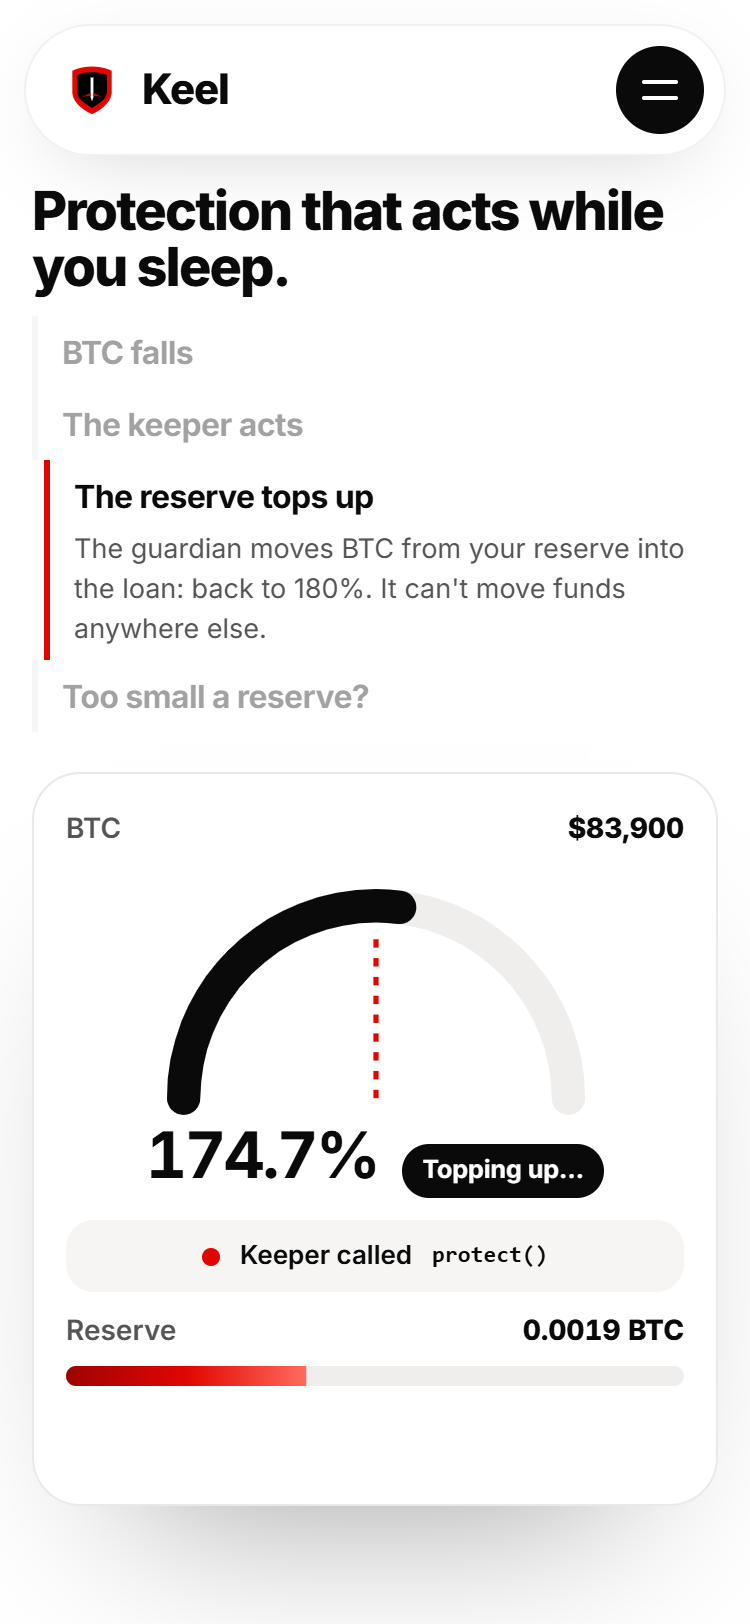
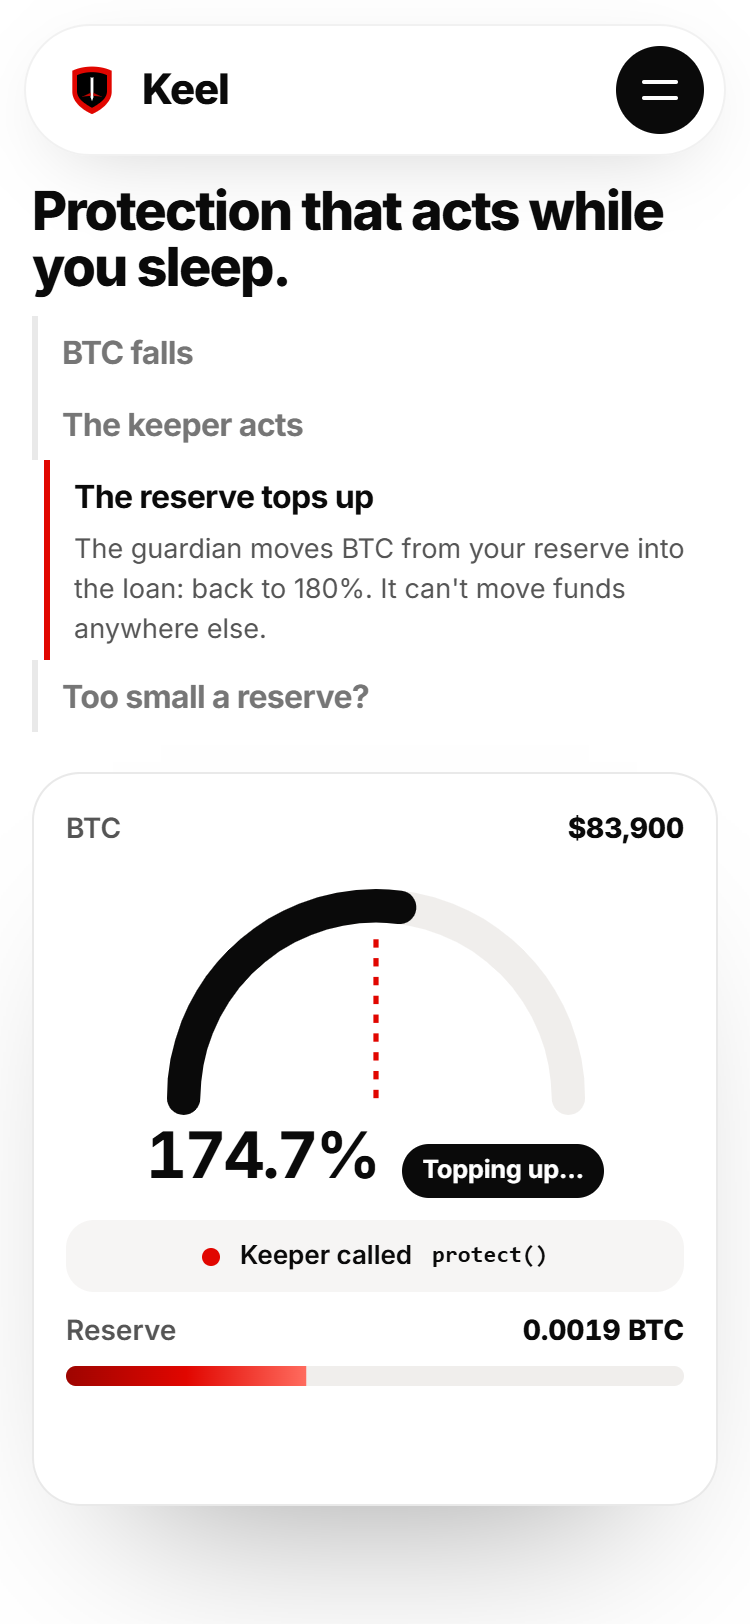
Landing: Onest type like the reference, faster rendering, motion on first interaction
- typography: Onest (closest free match to the reference's neo-grotesk, SIL OFL), self-hosted with
  font-display: optional and a preload, headlines at medium weight; the app keeps Inter, now loaded
  only for app launches
- rendering cost: no filter: blur or backdrop-filter (far spheres are soft radial gradients, glass is
  near-opaque white), no blanket will-change, lighter sphere shadows; this cut seconds of style/layout
  on a throttled mobile CPU
- headline and lead stay visible from the first paint (they glide in); scroll motion starts on the
  first scroll/touch/pointer/key or after 8 s
- "set to test" and stats unchanged

diff --git a/miniapp/src/landing/landing.css b/miniapp/src/landing/landing.css
@@ -1,3 +1,12 @@
+/* Onest (SIL Open Font License 1.1), self-hosted. "optional": a font that arrives late never re-lays out the page. */
+@font-face {
+  font-family: "Onest";
+  font-style: normal;
+  font-weight: 400 700;
+  font-display: optional;
+  src: url(/fonts/onest-latin.woff2) format("woff2");
+  unicode-range: U+0000-00FF, U+0131, U+0152-0153, U+02BB-02BC, U+02C6, U+02DA, U+02DC, U+0304, U+0308, U+0329, U+2000-206F, U+20AC, U+2122, U+2191, U+2193, U+2212, U+2215, U+FEFF, U+FFFD;
+}
 /* Keel landing page. White / off-white, black type, Keel red. Spheres are CSS-only red glass. */
 .lp {
   --red: #e10600;
@@ -15,7 +24,7 @@
   --r-md: 18px;
   color: var(--ink);
   background: #fff;
-  font-family: Inter, system-ui, -apple-system, "Segoe UI", Roboto, sans-serif;
+  font-family: Onest, system-ui, -apple-system, "Segoe UI", Roboto, sans-serif;
   -webkit-font-smoothing: antialiased;
   overflow-x: clip;
   line-height: 1.5;
@@ -23,7 +32,7 @@
 .lp *, .lp *::before, .lp *::after { box-sizing: border-box; }
 .lp img { display: block; max-width: 100%; }
 :where(.lp) a { color: inherit; }
-.lp h1, .lp h2, .lp h3, .lp h4 { margin: 0; letter-spacing: -0.035em; line-height: 1.04; font-weight: 750; }
+.lp h1, .lp h2, .lp h3, .lp h4 { margin: 0; letter-spacing: -0.03em; line-height: 1.06; font-weight: 500; }
 .lp p { margin: 0; }
 .lp code { font-family: ui-monospace, "SF Mono", Menlo, Consolas, monospace; font-size: 0.9em; }
 .lp :focus-visible { outline: 3px solid var(--red); outline-offset: 3px; border-radius: 10px; }
@@ -53,13 +62,12 @@
     radial-gradient(circle at 31% 26%, rgba(255, 255, 255, 0.95) 0 3.5%, rgba(255, 255, 255, 0.4) 8%, rgba(255, 255, 255, 0) 20%),
     radial-gradient(circle at 72% 82%, rgba(255, 140, 128, 0.7), rgba(255, 140, 128, 0) 42%),
     radial-gradient(circle at 38% 34%, #ff4d40 0%, var(--red) 40%, var(--red-deep) 78%, #5a0200 100%);
-  box-shadow: inset -18px -26px 50px rgba(70, 0, 0, 0.42), inset 12px 14px 34px rgba(255, 200, 190, 0.38), 0 50px 90px -30px rgba(225, 6, 0, 0.4);
+  box-shadow: inset -18px -26px 50px rgba(70, 0, 0, 0.42), inset 12px 14px 34px rgba(255, 200, 190, 0.38);
   opacity: 0.94;
-  will-change: transform;
 }
-.sph.d1 { filter: blur(2px); opacity: 0.85; }
-.sph.d2 { filter: blur(10px); opacity: 0.55; }
-.sph.d3 { filter: blur(28px); opacity: 0.38; }
+.sph.d1 { opacity: 0.88; }
+.sph.d2 { opacity: 0.6; box-shadow: none; background: radial-gradient(circle at 40% 36%, rgba(255, 90, 80, 0.85) 0%, rgba(225, 6, 0, 0.6) 38%, rgba(225, 6, 0, 0.18) 58%, rgba(225, 6, 0, 0) 71%); }
+.sph.d3 { opacity: 0.45; box-shadow: none; background: radial-gradient(circle at 50% 50%, rgba(225, 6, 0, 0.55) 0%, rgba(225, 6, 0, 0.22) 40%, rgba(225, 6, 0, 0) 70%); }
 .sph.light {
   background:
     radial-gradient(circle at 31% 26%, #fff 0 4%, rgba(255, 255, 255, 0.5) 9%, rgba(255, 255, 255, 0) 22%),
@@ -68,12 +76,12 @@
 }
 
 /* ---------------------------------------------------------------- buttons */
-.btn { position: relative; display: inline-flex; align-items: center; justify-content: center; gap: 9px; min-height: 52px; padding: 0 24px; border-radius: 999px; font: inherit; font-weight: 650; font-size: 16px; text-decoration: none; border: 1.5px solid transparent; cursor: pointer; transition: background 0.35s var(--ease), color 0.35s var(--ease), border-color 0.35s var(--ease), box-shadow 0.35s var(--ease); will-change: transform; white-space: nowrap; }
+.btn { position: relative; display: inline-flex; align-items: center; justify-content: center; gap: 9px; min-height: 52px; padding: 0 24px; border-radius: 999px; font: inherit; font-weight: 600; font-size: 16px; text-decoration: none; border: 1.5px solid transparent; cursor: pointer; transition: background 0.35s var(--ease), color 0.35s var(--ease), border-color 0.35s var(--ease), box-shadow 0.35s var(--ease); will-change: transform; white-space: nowrap; }
 .btn span { display: inline-flex; align-items: center; gap: 9px; }
 .btn-sm { min-height: 42px; padding: 0 18px; font-size: 14.5px; }
 .btn-primary { background: var(--red); color: #fff; box-shadow: 0 12px 30px -12px rgba(225, 6, 0, 0.6); }
 .btn-primary:hover { background: var(--red-deep); }
-.btn-ghost { background: rgba(255, 255, 255, 0.7); color: var(--ink); border-color: rgba(10, 10, 10, 0.16); backdrop-filter: blur(10px); }
+.btn-ghost { background: rgba(255, 255, 255, 0.7); color: var(--ink); border-color: rgba(10, 10, 10, 0.16); }
 .btn-ghost:hover { border-color: var(--ink); background: #fff; }
 .btn-light { background: #fff; color: var(--ink); }
 .btn-light:hover { background: #ffecea; }
@@ -83,9 +91,9 @@
 
 /* ---------------------------------------------------------------- nav */
 .nav { position: fixed; inset: 12px 12px auto; z-index: 50; }
-.nav-inner { display: flex; align-items: center; gap: 24px; width: min(1240px, 100%); margin: 0 auto; padding: 10px 10px 10px 18px; border-radius: 999px; background: rgba(255, 255, 255, 0.58); border: 1px solid rgba(255, 255, 255, 0.7); backdrop-filter: blur(18px) saturate(1.6); -webkit-backdrop-filter: blur(18px) saturate(1.6); transition: box-shadow 0.5s var(--ease), background 0.5s var(--ease); }
-.nav.scrolled .nav-inner { background: rgba(255, 255, 255, 0.82); box-shadow: 0 10px 40px -18px rgba(0, 0, 0, 0.25); border-color: rgba(10, 10, 10, 0.06); }
-.brand { display: inline-flex; align-items: center; gap: 10px; font-weight: 800; font-size: 21px; letter-spacing: -0.03em; text-decoration: none; }
+.nav-inner { display: flex; align-items: center; gap: 24px; width: min(1240px, 100%); margin: 0 auto; padding: 10px 10px 10px 18px; border-radius: 999px; background: rgba(255, 255, 255, 0.86); border: 1px solid rgba(10, 10, 10, 0.05); transition: box-shadow 0.5s var(--ease), background 0.5s var(--ease); }
+.nav.scrolled .nav-inner { background: rgba(255, 255, 255, 0.95); box-shadow: 0 10px 40px -18px rgba(0, 0, 0, 0.25); border-color: rgba(10, 10, 10, 0.06); }
+.brand { display: inline-flex; align-items: center; gap: 10px; font-weight: 700; font-size: 21px; letter-spacing: -0.03em; text-decoration: none; }
 .brand.light { color: #fff; }
 .nav-links { display: flex; gap: 26px; margin-left: 12px; font-size: 15px; font-weight: 550; }
 .nav-links a { text-decoration: none; color: #333; position: relative; }
@@ -99,7 +107,7 @@
 .nav-toggle span:last-child { top: 25px; }
 .nav.open .nav-toggle span:first-child { transform: translateY(4px) rotate(45deg); }
 .nav.open .nav-toggle span:last-child { transform: translateY(-4px) rotate(-45deg); }
-.nav-sheet { margin: 8px auto 0; width: min(1240px, 100%); padding: 16px; border-radius: 28px; background: rgba(255, 255, 255, 0.94); backdrop-filter: blur(18px); box-shadow: 0 20px 50px -20px rgba(0, 0, 0, 0.3); display: grid; gap: 4px; animation: sheet 0.5s var(--ease); }
+.nav-sheet { margin: 8px auto 0; width: min(1240px, 100%); padding: 16px; border-radius: 28px; background: #fff; box-shadow: 0 20px 50px -20px rgba(0, 0, 0, 0.3); display: grid; gap: 4px; animation: sheet 0.5s var(--ease); }
 .nav-sheet[hidden] { display: none; }
 .nav-sheet > a:not(.btn) { padding: 12px 10px; font-size: 18px; font-weight: 600; text-decoration: none; border-bottom: 1px solid var(--line); }
 .nav-sheet .btn { margin-top: 8px; }
@@ -108,14 +116,14 @@
 /* ---------------------------------------------------------------- hero */
 .hero { position: relative; min-height: 100vh; min-height: 100svh; padding: 130px 0 70px; display: grid; align-items: center; background: radial-gradient(120% 80% at 80% 0%, #fff4f2 0%, #ffffff 55%); overflow: clip; }
 .hero-grid { display: grid; grid-template-columns: 1.25fr 0.75fr; gap: 40px; align-items: center; }
-.hero h1 { font-size: clamp(42px, 5.4vw, 80px); letter-spacing: -0.045em; margin: 18px 0 22px; }
+.hero h1 { font-size: clamp(42px, 5.4vw, 80px); letter-spacing: -0.035em; margin: 18px 0 22px; }
 .hero h1 em { font-style: normal; color: var(--red); }
 .hero .lead { margin-bottom: 30px; }
 .hero .fine { margin-top: 18px; }
 .hero-visual { position: relative; height: min(680px, 78vh); display: grid; place-items: center; }
 .h-s1 { top: -120px; right: -140px; }
 .h-s2 { top: 4%; right: -2%; z-index: 3; }
-.h-s3 { bottom: 34%; left: 4%; z-index: 3; }
+.h-s3 { bottom: 9%; left: 53%; z-index: 3; }
 .h-s4 { bottom: -80px; left: -120px; }
 
 .phone { position: relative; width: 290px; aspect-ratio: 540 / 1107; border-radius: 46px; padding: 10px; background: linear-gradient(145deg, #2b2b2b, #050505); box-shadow: 0 0 0 1.5px #3a3a3a inset, 0 60px 90px -40px rgba(0, 0, 0, 0.55), 0 30px 60px -30px rgba(225, 6, 0, 0.3); z-index: 2; }
@@ -124,7 +132,7 @@
 .phone-screen img { width: 100%; height: 100%; object-fit: cover; object-position: top; }
 .hero-phone { width: min(310px, 74vw); }
 
-.float { position: absolute; z-index: 4; display: flex; align-items: center; gap: 12px; padding: 14px 16px; border-radius: 20px; background: rgba(255, 255, 255, 0.78); border: 1px solid rgba(255, 255, 255, 0.9); backdrop-filter: blur(16px) saturate(1.4); -webkit-backdrop-filter: blur(16px) saturate(1.4); box-shadow: 0 24px 50px -24px rgba(0, 0, 0, 0.28), 0 2px 6px rgba(0, 0, 0, 0.04); font-size: 14px; will-change: transform; }
+.float { position: absolute; z-index: 4; display: flex; align-items: center; gap: 12px; padding: 14px 16px; border-radius: 20px; background: rgba(255, 255, 255, 0.94); border: 1px solid rgba(10, 10, 10, 0.05); box-shadow: 0 24px 50px -24px rgba(0, 0, 0, 0.28), 0 2px 6px rgba(0, 0, 0, 0.04); font-size: 14px; }
 .float b { display: block; font-size: 14.5px; letter-spacing: -0.01em; }
 .float small { display: block; color: var(--muted); font-size: 12.5px; }
 .fc-label { font-size: 12px; color: var(--muted); font-weight: 600; }
@@ -139,7 +147,7 @@
 /* ---------------------------------------------------------------- intro */
 .intro { position: relative; padding: clamp(80px, 12vw, 160px) 0; }
 .i-s1 { top: 18%; right: 8%; }
-.words { font-size: clamp(26px, 3.6vw, 50px); line-height: 1.22; letter-spacing: -0.03em; font-weight: 650; max-width: 1080px; }
+.words { font-size: clamp(26px, 3.6vw, 50px); line-height: 1.22; letter-spacing: -0.025em; font-weight: 500; max-width: 1080px; }
 .words .w { display: inline; transition: opacity 0.9s var(--ease), filter 0.9s var(--ease); }
 
 /* ---------------------------------------------------------------- features */
@@ -162,7 +170,7 @@
 .expand { position: relative; overflow: hidden; background: radial-gradient(120% 120% at 100% 0%, #ff3b2e 0%, var(--red) 45%, var(--red-deep) 100%); color: #fff; padding: clamp(80px, 10vw, 140px) 0; will-change: clip-path; }
 .e-s1 { top: -140px; left: -120px; }
 .e-s1.sph, .e-s2.sph { filter: none; }
-.e-s1 { opacity: 0.35 !important; filter: blur(14px) !important; }
+.e-s1 { opacity: 0.3 !important; }
 .e-s2 { bottom: 12%; right: 46%; }
 .expand-grid { display: grid; grid-template-columns: 0.85fr 1.15fr; gap: 48px; align-items: center; }
 .expand-copy { display: grid; gap: 18px; }
@@ -190,7 +198,7 @@
 .rm .g-steps li { color: var(--ink); }
 .g-visual { position: relative; display: grid; place-items: center; min-height: 520px; }
 .g-s1 { top: 0; right: 4%; }
-.g-card { position: relative; z-index: 2; width: min(420px, 100%); padding: 28px; border-radius: 30px; background: rgba(255, 255, 255, 0.84); backdrop-filter: blur(20px); border: 1px solid var(--line); box-shadow: 0 50px 90px -50px rgba(0, 0, 0, 0.4); display: grid; gap: 14px; }
+.g-card { position: relative; z-index: 2; width: min(420px, 100%); padding: 28px; border-radius: 30px; background: rgba(255, 255, 255, 0.96); border: 1px solid var(--line); box-shadow: 0 50px 90px -50px rgba(0, 0, 0, 0.4); display: grid; gap: 14px; }
 .g-top { display: flex; justify-content: space-between; color: var(--muted); font-weight: 600; font-size: 14px; }
 .g-top b { color: var(--ink); font-variant-numeric: tabular-nums; }
 .g-gauge { width: 100%; }
@@ -213,7 +221,7 @@
 .g-reserve-top b { color: var(--ink); font-variant-numeric: tabular-nums; }
 .g-bar { height: 10px; border-radius: 999px; background: #f0eeec; overflow: hidden; }
 .g-bar i { display: block; height: 100%; background: linear-gradient(90deg, var(--red-deep), var(--red), var(--coral)); transform-origin: left; }
-.g-done { text-align: center; padding: 12px; border-radius: 14px; background: var(--ink); color: #fff; font-weight: 650; opacity: 0; transform: translateY(8px); transition: opacity 0.5s var(--ease), transform 0.5s var(--ease); }
+.g-done { text-align: center; padding: 12px; border-radius: 14px; background: var(--ink); color: #fff; font-weight: 600; opacity: 0; transform: translateY(8px); transition: opacity 0.5s var(--ease), transform 0.5s var(--ease); }
 .g-done.on { opacity: 1; transform: none; }
 
 /* ---------------------------------------------------------------- payments */
@@ -239,7 +247,7 @@
 
 /* ---------------------------------------------------------------- built on Mezo */
 .mezo { padding: clamp(70px, 9vw, 120px) 0; border-top: 1px solid var(--line); }
-.logos { display: flex; flex-wrap: wrap; justify-content: space-between; gap: 24px; padding: 8px 0 56px; color: #8a8a8a; font-size: clamp(22px, 2.6vw, 34px); font-weight: 750; letter-spacing: -0.03em; }
+.logos { display: flex; flex-wrap: wrap; justify-content: space-between; gap: 24px; padding: 8px 0 56px; color: #8a8a8a; font-size: clamp(22px, 2.6vw, 34px); font-weight: 600; letter-spacing: -0.03em; }
 .logos span { display: inline-flex; align-items: center; gap: 10px; filter: grayscale(1); transition: filter 0.5s var(--ease), color 0.5s var(--ease); }
 .logos span:hover { filter: none; color: var(--ink); }
 .logo-mezo img { border-radius: 9px; }
@@ -253,9 +261,9 @@
 
 /* ---------------------------------------------------------------- stats band */
 .stats { position: relative; padding: clamp(70px, 9vw, 110px) 0; background: var(--night); color: #fff; overflow: hidden; }
-.stats::before { content: ""; position: absolute; width: 520px; height: 520px; right: -180px; top: -260px; border-radius: 50%; background: radial-gradient(circle, rgba(225, 6, 0, 0.45), transparent 65%); filter: blur(20px); }
+.stats::before { content: ""; position: absolute; width: 520px; height: 520px; right: -180px; top: -260px; border-radius: 50%; background: radial-gradient(circle, rgba(225, 6, 0, 0.42), rgba(225, 6, 0, 0.12) 45%, transparent 68%); }
 .stats-head { display: flex; justify-content: space-between; align-items: center; gap: 16px; flex-wrap: wrap; margin-bottom: 34px; }
-.stats-link { display: inline-flex; gap: 8px; align-items: center; font-weight: 650; text-decoration: none; color: #fff !important; }
+.stats-link { display: inline-flex; gap: 8px; align-items: center; font-weight: 600; text-decoration: none; color: #fff !important; }
 .stats-link:hover { color: #ff8a80 !important; }
 .stats-grid { display: grid; grid-template-columns: repeat(4, 1fr); gap: 16px; }
 .stat { display: grid; gap: 6px; padding: 24px; border-radius: var(--r-lg); background: rgba(255, 255, 255, 0.05); border: 1px solid rgba(255, 255, 255, 0.08); }
@@ -298,9 +306,9 @@
 .cta-grid { display: grid; grid-template-columns: 1fr auto; gap: 48px; align-items: center; }
 .cta h2 { font-size: clamp(38px, 5.6vw, 76px); margin-bottom: 18px; }
 .cta p { font-size: 19px; color: #fff; margin-bottom: 28px; max-width: 540px; }
-.cta-demo { display: inline-block; margin-top: 20px; color: #fff !important; font-weight: 650; }
+.cta-demo { display: inline-block; margin-top: 20px; color: #fff !important; font-weight: 600; }
 .qr { margin: 0; display: grid; gap: 12px; justify-items: center; padding: 18px; border-radius: 28px; background: #fff; color: var(--ink); box-shadow: 0 40px 70px -40px rgba(0, 0, 0, 0.5); }
-.qr figcaption { font-size: 13.5px; font-weight: 650; }
+.qr figcaption { font-size: 13.5px; font-weight: 600; }
 
 /* ---------------------------------------------------------------- footer (slides up over the band) */
 .foot { position: relative; z-index: 3; margin-top: -60px; padding: 80px 0 40px; background: var(--night); color: rgba(255, 255, 255, 0.72); border-radius: 40px 40px 0 0; }
@@ -315,11 +323,13 @@
 .foot-col a { text-decoration: none; font-size: 15px; transition: color 0.3s var(--ease); }
 .foot-col a:hover { color: #fff; }
 .foot-bottom { display: flex; flex-wrap: wrap; gap: 12px 28px; padding-top: 26px; font-size: 13.5px; }
-.built { display: inline-flex; align-items: center; gap: 8px; color: #fff; font-weight: 650; }
+.built { display: inline-flex; align-items: center; gap: 8px; color: #fff; font-weight: 600; }
 .built img { border-radius: 5px; }
 
 /* ---------------------------------------------------------------- hero entrance: CSS, so it plays from the first paint */
-@keyframes lp-rise { from { opacity: 0; transform: translate3d(0, 34px, 0); filter: blur(10px); } }
+@keyframes lp-rise { from { opacity: 0; transform: translate3d(0, 34px, 0); } }
+/* the headline and lead stay visible from the first paint (they are the largest content); they only glide in */
+@keyframes lp-glide { from { transform: translate3d(0, 26px, 0); } }
 @keyframes lp-phone { from { opacity: 0; transform: translate3d(0, 110px, 0) rotate(5deg); } }
 @keyframes lp-pop { from { opacity: 0; transform: translate3d(0, 36px, 0) scale(0.86); } }
 @keyframes lp-grow { from { opacity: 0; transform: scale(0.4); } }
@@ -329,6 +339,7 @@
   .hero [data-hero]:nth-child(3) { animation-delay: 0.16s; }
   .hero [data-hero]:nth-child(4) { animation-delay: 0.24s; }
   .hero [data-hero]:nth-child(5) { animation-delay: 0.32s; }
+  .hero h1[data-hero], .hero .lead[data-hero] { animation-name: lp-glide; }
   .hero-phone { animation: lp-phone 1.7s var(--ease) 0.12s backwards; }
   .hero .float { animation: lp-pop 1.3s var(--ease) backwards; }
   .hero .fc-ratio { animation-delay: 0.55s; }
@@ -340,7 +351,6 @@
 /* ---------------------------------------------------------------- reduced motion: simple fades */
 .rm [data-reveal], .rm [data-stagger] > *, .rm .w { opacity: 0; transition: opacity 0.8s ease; }
 .rm .in { opacity: 1 !important; }
-.rm .sph, .rm .float { will-change: auto; }
 
 /* ---------------------------------------------------------------- responsive */
 @media (max-width: 1080px) {

diff --git a/miniapp/index.html b/miniapp/index.html
@@ -23,11 +23,8 @@
     <link rel="icon" type="image/svg+xml" href="/keel-icon-red.svg" />
     <link rel="icon" type="image/png" sizes="512x512" href="/keel-icon-512.png" />
     <link rel="apple-touch-icon" href="/apple-touch-icon.png" />
-    <link rel="preconnect" href="https://fonts.googleapis.com" />
-    <link rel="preconnect" href="https://fonts.gstatic.com" crossorigin />
-    <link rel="preload" as="style" href="https://fonts.googleapis.com/css2?family=Inter:wght@400;500;600;700;800&display=swap" />
-    <link rel="stylesheet" href="https://fonts.googleapis.com/css2?family=Inter:wght@400;500;600;700;800&display=swap" media="print" onload="this.media='all'" />
-    <!-- The Telegram SDK is loaded by src/main.tsx only when the app (not the landing page) is opened. -->
+    <!-- The Telegram SDK is loaded by src/main.tsx only when the app (not the landing page) is opened.
+         Fonts: the landing uses self-hosted Onest (public/fonts, SIL OFL), the app uses Inter from Google Fonts. -->
     <script>
       // Same rule as src/main.tsx: a plain browser at "/" gets the (prerendered) landing page; everything else is the app.
       (function () {
@@ -37,9 +34,14 @@
         document.documentElement.setAttribute("data-mode", landing ? "landing" : "app")
         var css = "__LANDING_CSS__", js = "__LANDING_JS__"
         if (landing && css.indexOf("__") !== 0) {
+          document.write('<link rel="preload" as="font" type="font/woff2" crossorigin href="/fonts/onest-latin.woff2" />')
           document.write('<link rel="stylesheet" href="' + css + '" />')
           // fetch the landing's code alongside the entry instead of after it
           js.split(",").forEach(function (f) { document.write('<link rel="modulepreload" crossorigin href="' + f + '" />') })
+        }
+        if (!landing) {
+          var inter = "https://fonts.googleapis.com/css2?family=Inter:wght@400;500;600;700;800&display=swap"
+          document.write('<link rel="preconnect" href="https://fonts.gstatic.com" crossorigin /><link rel="stylesheet" href="' + inter + '" media="print" onload="this.media=\x27all\x27" />')
         }
       })()
     </script>

diff --git a/miniapp/src/landing/Landing.tsx b/miniapp/src/landing/Landing.tsx
@@ -521,16 +521,25 @@ export function Landing() {
   useEffect(() => {
     let cleanup: (() => void) | undefined
     let cancelled = false
-    // motion code (GSAP, Lenis) loads once the browser is idle, so it never delays or blocks the first paint
-    const start = () =>
+    // Scroll motion (GSAP, Lenis) starts on the visitor's first scroll, touch, pointer move or key, or after a few
+    // seconds: the hero's own entrance is CSS, so nothing here delays or blocks the first paint.
+    const EVENTS = ["wheel", "scroll", "touchstart", "pointermove", "keydown"] as const
+    let started = false
+    const start = () => {
+      if (started) return
+      started = true
+      EVENTS.forEach((e) => removeEventListener(e, start))
+      clearTimeout(timer)
       void import("./motion").then((m) => {
         if (!cancelled && root.current) cleanup = m.initMotion(root.current)
       })
-    const ric = (window as unknown as { requestIdleCallback?: (cb: () => void, o?: { timeout: number }) => number }).requestIdleCallback
-    if (ric) ric(start, { timeout: 2500 })
-    else setTimeout(start, 600)
+    }
+    EVENTS.forEach((e) => addEventListener(e, start, { passive: true, once: true }))
+    const timer = setTimeout(start, 8000)
     return () => {
       cancelled = true
+      clearTimeout(timer)
+      EVENTS.forEach((e) => removeEventListener(e, start))
       cleanup?.()
     }
   }, [])
